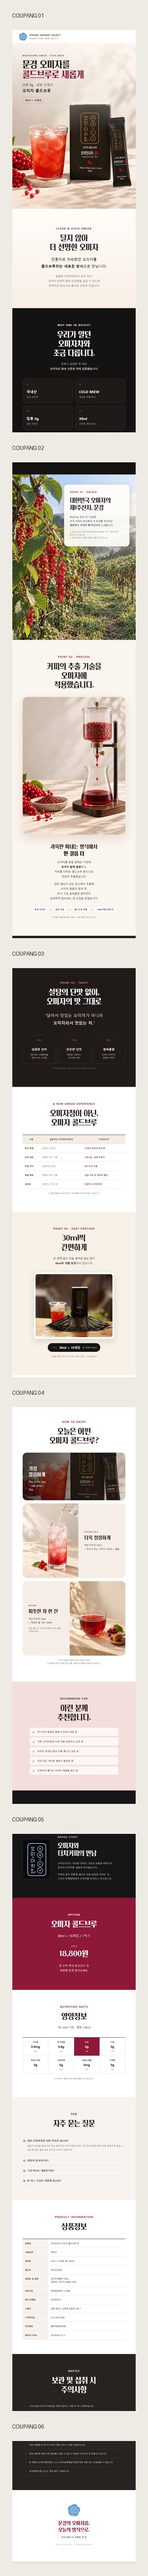
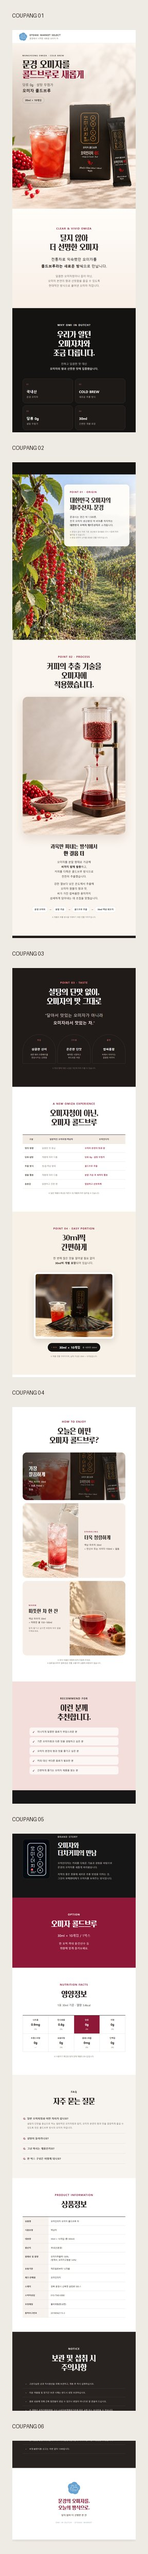
Update Omija cold brew detail page

Changed region(s): [[0.0625, 0.0, 0.9375, 0.9978], [0.75, 0.7795, 0.7812, 0.8107]]

diff --git a/오미인더치_오미자콜드브루_상세페이지/styles.css b/오미인더치_오미자콜드브루_상세페이지/styles.css
@@ -22,7 +22,7 @@ img{display:block;max-width:100%}
 .howto{background:#fff}.serve-card{display:grid;grid-template-columns:1.18fr 1fr;align-items:stretch;margin:0 0 22px;border-radius:28px;overflow:hidden;background:#f6eee6;min-height:430px}.serve-card.reverse{grid-template-columns:1fr 1.18fr}.serve-card.reverse img{order:2}.serve-card img{width:100%;height:100%;object-fit:cover}.serve-card>div{display:flex;flex-direction:column;justify-content:center;padding:42px}.serve-card span{font-size:13px;letter-spacing:3px;color:var(--ruby);font-weight:800}.serve-card h3{font:34px/1.2 Danjunghae,sans-serif;margin:13px 0 18px}.serve-card p{font-size:15px;line-height:1.75;margin:0}.serve-card small{margin-top:16px;color:#766b66;line-height:1.5}.ice-card{min-height:330px;color:#fff;background:linear-gradient(90deg,rgba(24,17,15,.77),rgba(24,17,15,.15)),url('assets/오미인더치_IMG-01_HERO_v2_열량수정.png') center 69%/cover}.ice-card>div{width:55%}.ice-card span{color:#ff9799}
 .recommend{background:var(--blush)}.recommend ul{list-style:none;margin:40px auto 0;padding:0;max-width:620px}.recommend li{position:relative;margin:10px 0;padding:18px 22px 18px 54px;text-align:left;background:rgba(255,255,255,.72);border-radius:14px;font-size:16px}.recommend li:before{content:"✓";position:absolute;left:22px;color:var(--ruby);font-weight:900}
 .brand-story{display:grid;grid-template-columns:190px 1fr;gap:54px;align-items:center;background:#161616;color:#fff}.logo-frame{padding:14px;background:#070b0e;border:1px solid #3b4044;border-radius:24px}.logo-frame img{width:100%}.brand-story h2{font-size:45px}.brand-story p{font-size:16px;color:#d0c8c3}
-.option{background:var(--ruby);color:#fff}.option-volume{font-size:22px!important}.price{display:flex;flex-direction:column;gap:10px;margin:40px 0!important}.price small{font-size:14px;color:#f2bdc7}.price strong{font:54px/1 Danjunghae,sans-serif}.nutrition{background:#fff}.nutrition-grid{display:grid;grid-template-columns:repeat(4,1fr);border-top:2px solid var(--ink);border-left:1px solid var(--line)}.nutrition-grid div{display:flex;flex-direction:column;gap:9px;padding:22px 14px;border-right:1px solid var(--line);border-bottom:1px solid var(--line);text-align:center}.nutrition-grid b{font-size:13px}.nutrition-grid span{font-size:21px;font-weight:800}.nutrition-grid small{color:#8a7e78}.nutrition-grid .ruby-cell{background:var(--ruby);color:#fff}.nutrition-grid .ruby-cell small{color:#f3cbd3}
+.option{background:var(--ruby);color:#fff}.option-volume{font-size:22px!important}.nutrition{background:#fff}.nutrition-grid{display:grid;grid-template-columns:repeat(4,1fr);border-top:2px solid var(--ink);border-left:1px solid var(--line)}.nutrition-grid div{display:flex;flex-direction:column;gap:9px;padding:22px 14px;border-right:1px solid var(--line);border-bottom:1px solid var(--line);text-align:center}.nutrition-grid b{font-size:13px}.nutrition-grid span{font-size:21px;font-weight:800}.nutrition-grid small{color:#8a7e78}.nutrition-grid .ruby-cell{background:var(--ruby);color:#fff}.nutrition-grid .ruby-cell small{color:#f3cbd3}
 .faq{background:#f7f3ee}.faq details{border-bottom:1px solid #d8cec7;padding:23px 4px}.faq summary{cursor:pointer;font-weight:800;font-size:17px;list-style:none}.faq summary:before{content:"Q.";color:var(--ruby);margin-right:10px}.faq details p{padding:12px 0 0 28px;font-size:15px;color:#716762;margin:0}
 .product-info{background:#fff}.product-info dl{margin:0;border-top:2px solid var(--ink)}.product-info dl div{display:grid;grid-template-columns:180px 1fr;border-bottom:1px solid var(--line)}.product-info dt,.product-info dd{margin:0;padding:19px 16px;font-size:14px;line-height:1.6}.product-info dt{font-weight:800;background:#f7f2ed}.notice{background:#282321;color:#fff}.notice ul{margin:0;padding:0;list-style:none}.notice li{position:relative;padding:18px 16px 18px 46px;border-bottom:1px solid #504844;font-size:14px;line-height:1.7;color:#ddd5d1}.notice li:before{content:"•";position:absolute;left:20px;color:#e37a7c}.closing{padding:95px 40px 110px;text-align:center;background:#fff}.closing img{width:88px;margin:0 auto 24px;border-radius:50%}.closing p{font:34px/1.35 Danjunghae,sans-serif;color:var(--ruby);margin:0 0 18px}.closing strong{display:block;margin-bottom:28px;font-size:15px;color:#4f4540}.closing span{font-size:11px;letter-spacing:3px;color:#8298a6}
 @media(max-width:600px){.brand-bar{height:74px;padding:10px 22px}.brand-bar img{width:46px;height:46px}.brand-bar span{display:none}.hero-copy{top:36px;left:28px;right:28px}.hero-copy h1{font-size:38px;margin:12px 0}.hero-copy>p:not(.eyebrow){font-size:16px}.hero-copy strong{font-size:19px}.volume{margin-top:12px;padding:7px 12px;font-size:12px}.section{padding:70px 24px}.section h2,.visual-copy h2{font-size:34px}.intro .lead{font-size:20px}.section p{font-size:15px}.eyebrow{font-size:10px;letter-spacing:1.5px;overflow-wrap:anywhere}.mobile-only{display:block}.feature-grid{gap:10px}.feature-grid article{min-height:140px;padding:20px}.feature-grid b{font-size:18px}.light-card{position:relative;top:auto;right:auto;width:auto;margin:-170px 20px 0;padding:27px}.origin{padding-bottom:40px;background:#f7f1e8}.light-card h2{font-size:32px}.taste-steps{grid-template-columns:1fr}.taste-steps article{border-radius:20px}.taste-steps b{margin:18px 0 10px}.tr{grid-template-columns:76px 1fr 1fr}.tr>*{padding:14px 7px;font-size:11px}.pack-spec{gap:8px;padding:13px 16px}.pack-spec b{font-size:15px}.pack-spec small{display:none}.serve-card,.serve-card.reverse{grid-template-columns:1fr;min-height:0}.serve-card.reverse img{order:0}.serve-card img{height:330px}.serve-card>div{padding:30px}.ice-card{min-height:300px}.ice-card>div{width:68%}.brand-story{grid-template-columns:110px 1fr;gap:24px}.brand-story h2{font-size:30px}.brand-story p{font-size:13px}.nutrition-grid{grid-template-columns:repeat(2,1fr)}.product-info dl div{grid-template-columns:115px 1fr}.product-info dt,.product-info dd{font-size:12px;padding:14px 10px}.closing p{font-size:27px}.closing strong{font-size:13px}}

diff --git a/오미인더치_오미자콜드브루_상세페이지/index.html b/오미인더치_오미자콜드브루_상세페이지/index.html
@@ -153,7 +153,6 @@
       <p class="eyebrow">OPTION</p>
       <h2>오미자 콜드브루</h2>
       <p class="option-volume">30ml × 10개입 / 1박스</p>
-      <p class="price"><small>판매가</small><strong>18,800원</strong></p>
       <p>한 포씩 꺼내 물·탄산수 등<br>취향에 맞게 즐겨보세요.</p>
     </section>
 

diff --git a/오미인더치_오미자콜드브루_상세페이지/PHASE01_크리에이티브디렉션.md b/오미인더치_오미자콜드브루_상세페이지/PHASE01_크리에이티브디렉션.md
@@ -9,7 +9,6 @@
 - 원료 산지: 문경 오미자
 - 제품 방식: 콜드브루 추출
 - 구성: 30ml × 10개입 / 1박스
-- 판매가: 18,800원
 - 음용 방식: 물·탄산수 등에 희석
 - 사용자 제공 특징: 설탕을 넣지 않음, 첨가제 없이 제조, 개별 소포장
 - 제품 표시 이미지 확인: 액상차, 국내산(문경) 오미자, 오미자추출액 100%(정제수, 오미자고형분 3.6%)
@@ -91,7 +90,7 @@
 12. HOW TO — ICE / SPARKLING / WARM / 드레싱 활용
 13. RECOMMEND — 추천 고객
 14. BRAND STORY — OMI IN DUTCH
-15. OPTION — 30ml × 10개입 / 18,800원
+15. OPTION — 30ml × 10개입 / 1박스
 16. NUTRITION — 제품 표시 이미지의 30ml 영양정보
 17. FAQ / NOTICE / PRODUCT INFO
 18. OTOKKI 브랜드 마무리

diff --git a/오미인더치_오미자콜드브루_상세페이지/final-storyboard.md b/오미인더치_오미자콜드브루_상세페이지/final-storyboard.md
@@ -14,7 +14,7 @@
 10. HOW TO — ICE / SPARKLING / WARM
 11. RECOMMEND
 12. BRAND STORY — OMI IN DUTCH
-13. OPTION — 18,800원
+13. OPTION — 30ml × 10개입 / 1박스
 14. NUTRITION — 1포 30ml당 3.4kcal
 15. FAQ
 16. PRODUCT INFORMATION
@@ -42,7 +42,6 @@
 
 - 공식 상품명: 오미인더치 오미자 콜드브루 차
 - 실제 구성: 30ml × 10개입 / 1박스
-- 판매가: 18,800원
 - 식품유형: 액상차
 - 원산지: 국내산(문경)
 - 원재료 및 함량: 오미자추출액 100%(정제수, 오미자고형분 3.6%)

diff --git a/오미인더치_오미자콜드브루_상세페이지/카피덱_v1.md b/오미인더치_오미자콜드브루_상세페이지/카피덱_v1.md
@@ -183,9 +183,6 @@
 
 **30ml × 10개입 / 1박스**
 
-판매가  
-**18,800원**
-
 한 포씩 꺼내 물·탄산수 등  
 취향에 맞게 즐겨보세요.
 
